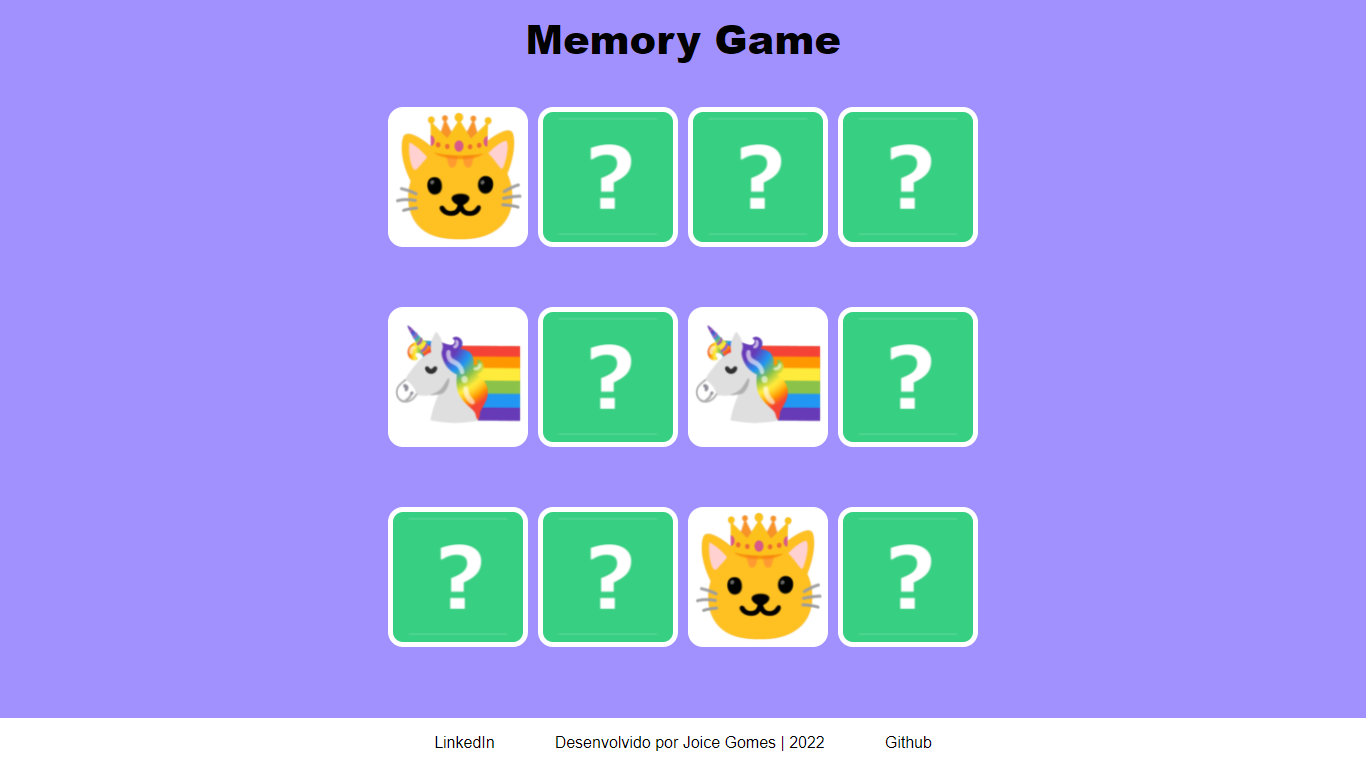
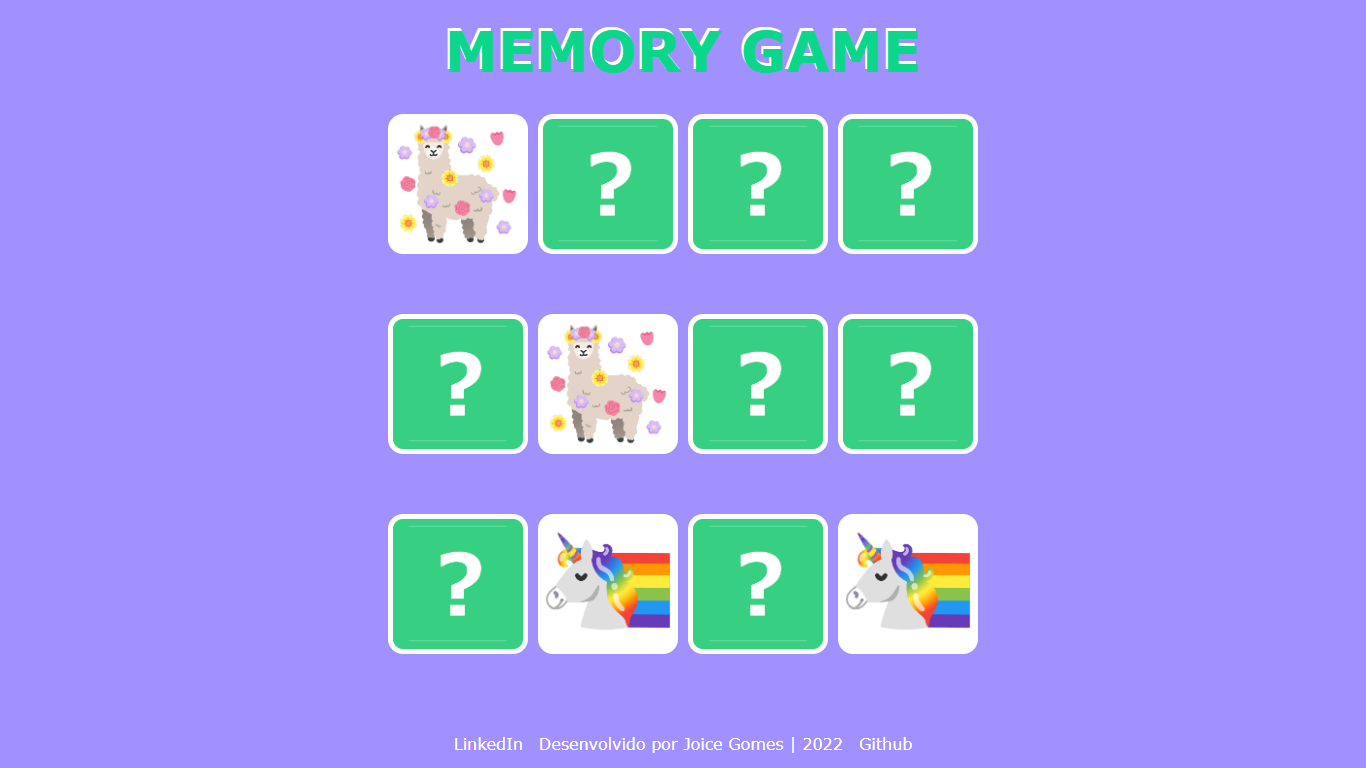
update

diff --git a/index.html b/index.html
@@ -76,7 +76,7 @@
             <ul class="intro__links">
                 <li class="intro__links__link"><a href="https://github.com/Joi-GN" target="_blank">GitHub</a></li>
                 <li class="intro__links__link"><a href="https://www.linkedin.com/in/joice-gomes-dn/" target="_blank">LinkedIn</a></li>
-                <li class="intro__links__link"><a href="#" target="_blank">Currículo</a></li>
+                <!-- <li class="intro__links__link"><a href="#" target="_blank">Currículo</a></li> -->
             </ul>
         </div>
         <i class="intro__more-bellow fa-solid fa-angles-down"></i>
@@ -161,7 +161,7 @@
             </div>
             <div class="skill">
                 <svg class="skill__icon" xmlns="http://www.w3.org/2000/svg" viewBox="0 0 384 512"><!--! Font Awesome Pro 6.1.1 by @fontawesome - https://fontawesome.com License - https://fontawesome.com/license (Commercial License) Copyright 2022 Fonticons, Inc. --><path d="M0 32l34.9 395.8L192 480l157.1-52.2L384 32H0zm313.1 80l-4.8 47.3L193 208.6l-.3.1h111.5l-12.8 146.6-98.2 28.7-98.8-29.2-6.4-73.9h48.9l3.2 38.3 52.6 13.3 54.7-15.4 3.7-61.6-166.3-.5v-.1l-.2.1-3.6-46.3L193.1 162l6.5-2.7H76.7L70.9 112h242.2z"/></svg>
-                <p class="skill__name">CSS Intermediário</p>
+                <p class="skill__name">CSS Intermediário / Avançado</p>
             </div>
             <div class="skill">
                 <svg class="skill__icon" xmlns="http://www.w3.org/2000/svg" viewBox="0 0 448 512"><!--! Font Awesome Pro 6.1.1 by @fontawesome - https://fontawesome.com License - https://fontawesome.com/license (Commercial License) Copyright 2022 Fonticons, Inc. --><path d="M400 32H48C21.5 32 0 53.5 0 80v352c0 26.5 21.5 48 48 48h352c26.5 0 48-21.5 48-48V80c0-26.5-21.5-48-48-48zM243.8 381.4c0 43.6-25.6 63.5-62.9 63.5-33.7 0-53.2-17.4-63.2-38.5l34.3-20.7c6.6 11.7 12.6 21.6 27.1 21.6 13.8 0 22.6-5.4 22.6-26.5V237.7h42.1v143.7zm99.6 63.5c-39.1 0-64.4-18.6-76.7-43l34.3-19.8c9 14.7 20.8 25.6 41.5 25.6 17.4 0 28.6-8.7 28.6-20.8 0-14.4-11.4-19.5-30.7-28l-10.5-4.5c-30.4-12.9-50.5-29.2-50.5-63.5 0-31.6 24.1-55.6 61.6-55.6 26.8 0 46 9.3 59.8 33.7L368 290c-7.2-12.9-15-18-27.1-18-12.3 0-20.1 7.8-20.1 18 0 12.6 7.8 17.7 25.9 25.6l10.5 4.5c35.8 15.3 55.9 31 55.9 66.2 0 37.8-29.8 58.6-69.7 58.6z"/></svg>
